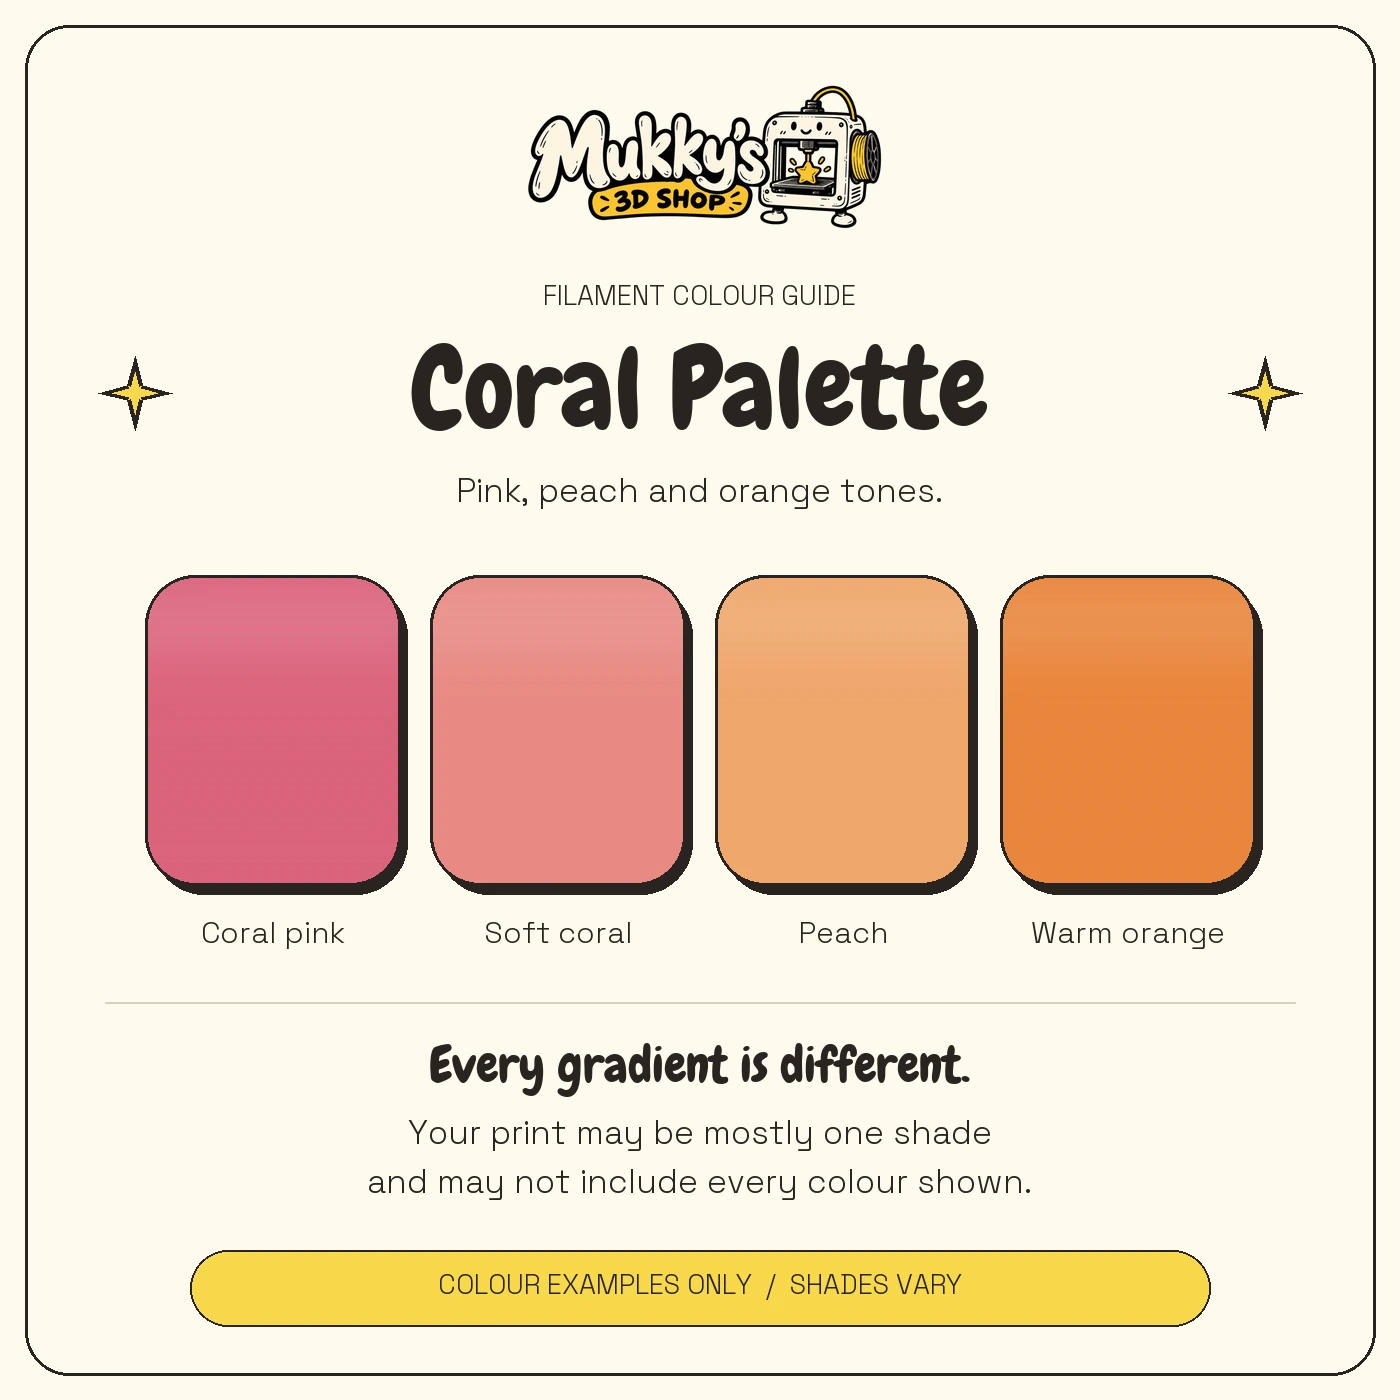
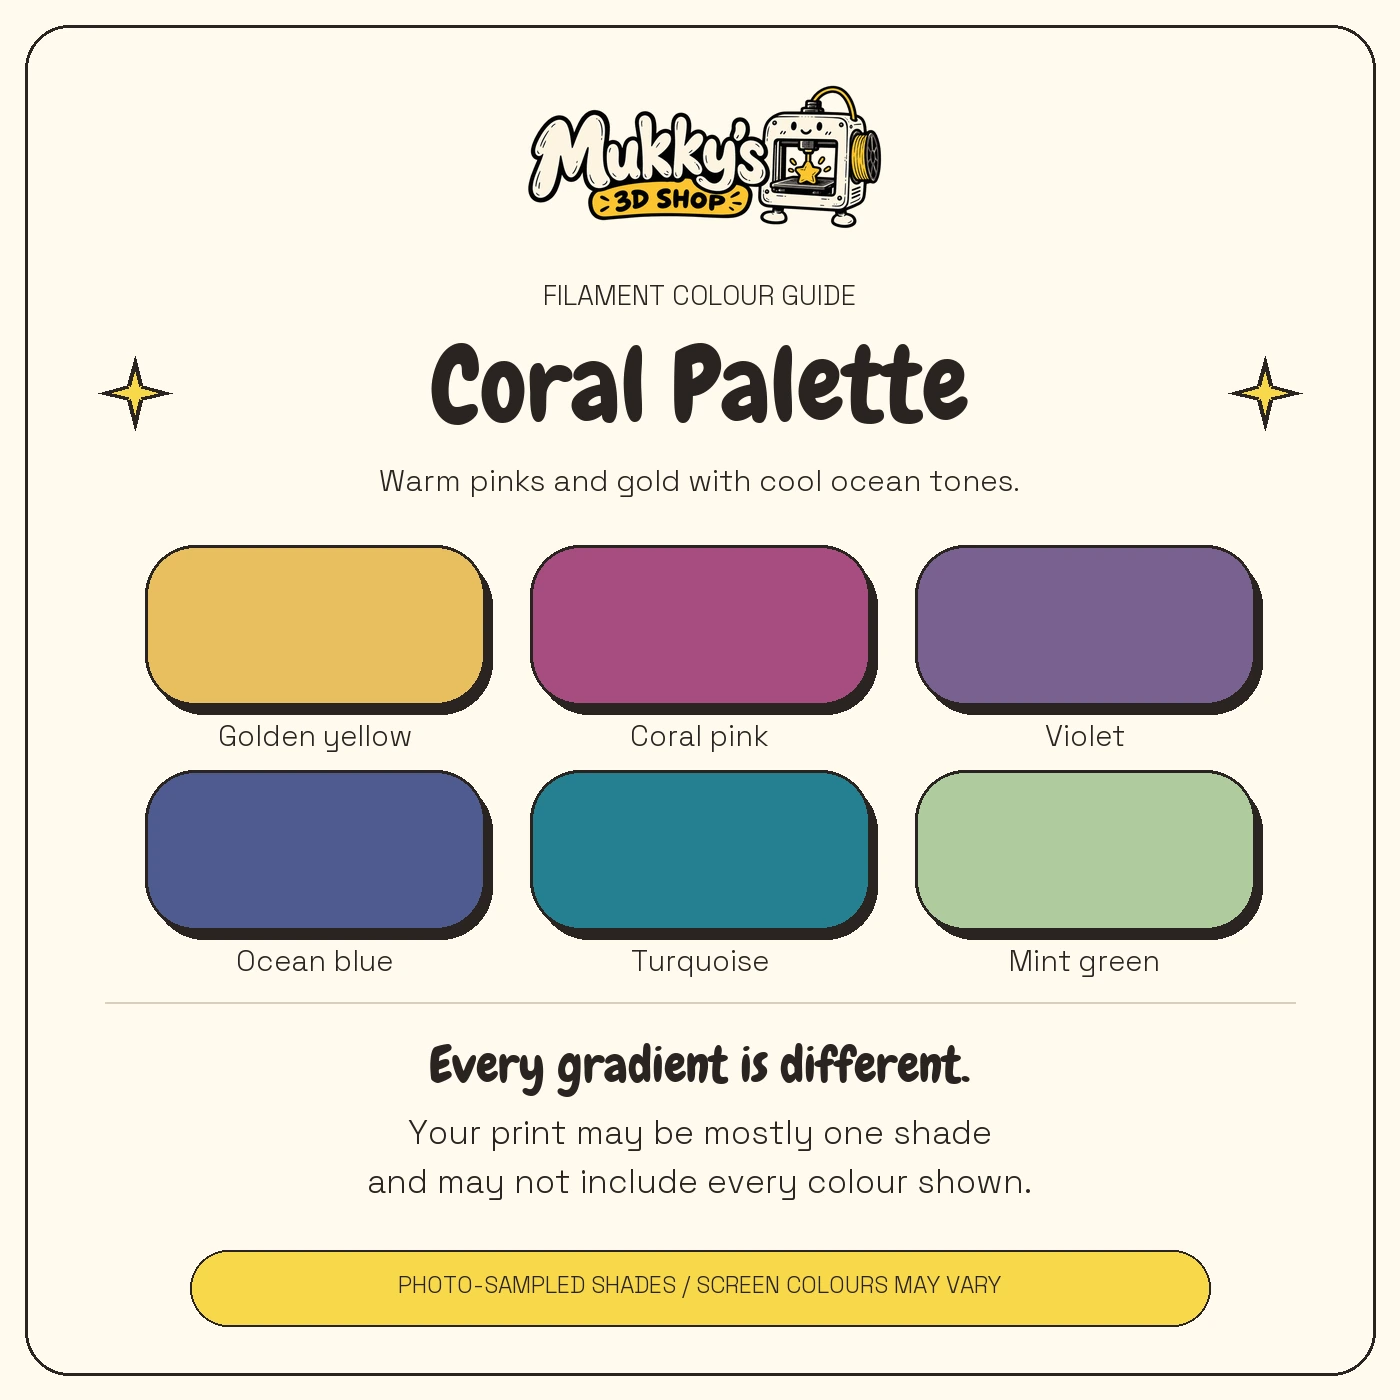
Update filament palette guides and clarify order support options

Changed region(s): [[0.0921, 0.3379, 0.9214, 0.7064], [0.2764, 0.2457, 0.7064, 0.3071], [0.2764, 0.8907, 0.7064, 0.9214]]

diff --git a/apps/storefront/src/app/[countryCode]/(main)/contact/page.tsx b/apps/storefront/src/app/[countryCode]/(main)/contact/page.tsx
@@ -1,10 +1,32 @@
 import { PolicyPage } from "@modules/policies/templates"
 import { Metadata } from "next"
 export const metadata: Metadata = { title: "Contact us" }
-export default function Page() {
-  return <PolicyPage title="A helping hand.">
+export default async function Page({ searchParams }: {
+  searchParams: Promise<{ topic?: string | string[]; order?: string | string[] }>
+}) {
+  const params = await searchParams
+  // The reference only prefills a support email; it never grants access to an order.
+  const orderNumber = typeof params.order === "string" && /^\d{1,20}$/.test(params.order) ? params.order : ""
+  const missing = params.topic === "missing-delivery"
+  const faulty = params.topic === "faulty-item" || params.topic === "return"
+  const topic = missing ? "Item hasn't arrived" : faulty ? "Received a faulty item" : "Order enquiry"
+  const subject = `${topic}${orderNumber ? ` - Order #${orderNumber}` : ""}`
+  const body = `Hello Mukky's 3D Shop,\n\nOrder number: ${orderNumber}\n\n${missing
+    ? "My item hasn't arrived.\nItem(s) missing: \nExpected delivery date (if known): \nTracking status (if available): "
+    : faulty ? "I've received a faulty or incorrect item.\nItem(s) affected: \nDescription of the problem: "
+    : "How can we help? "}\n\nThank you.`
+  const mailto = `mailto:mukkys3dshop@gmail.com?subject=${encodeURIComponent(subject)}&body=${encodeURIComponent(body)}`
+  return <PolicyPage title={missing ? "Item hasn’t arrived?" : faulty ? "Received a faulty item?" : "A helping hand."}>
+    {(missing || faulty) && <>
+      {orderNumber && <p>Help with order #{orderNumber}</p>}
+      <p>{missing
+        ? "Check your order’s delivery updates and any tracking link first. If your delivery is overdue, or tracking says delivered but you haven’t received it, email us and we’ll investigate."
+        : "Tell us which item is faulty, damaged or incorrect and what happened. Please wait for our instructions before sending anything back."}</p>
+      <p><a className="underline font-semibold" href={mailto}>{missing ? "Email us about a missing delivery" : "Email us about a faulty item"} ↗</a></p>
+      <p>This opens your email app with the order reference filled in. Add the details and send the email to submit your enquiry. It doesn’t automatically cancel or refund your order.</p>
+    </>}
     <p>Need help with your fidgets, delivery, payment or a refund request? Email Mukky&apos;s 3D Shop and we&apos;ll help.</p>
-    <p><a className="underline break-all" href="mailto:mukkys3dshop@gmail.com">mukkys3dshop@gmail.com</a></p>
+    <p><a className="underline break-all" href={mailto}>mukkys3dshop@gmail.com</a></p>
     <p>Include your order number and a short description of the problem. Never send card details or passwords.</p>
     <p>If your item arrived damaged or faulty, you can attach a clear photo of the item and packaging. Please avoid including faces, identity documents or unrelated personal information.</p>
     <p>You can email us even if you checked out as a guest. For account orders, you can also submit a refund request from your order details. Sending a request does not automatically cancel or refund an order; we will review it and reply.</p>

diff --git a/apps/storefront/src/modules/order/components/help/index.tsx b/apps/storefront/src/modules/order/components/help/index.tsx
@@ -2,20 +2,26 @@ import { Heading } from "@modules/common/components/ui"
 import LocalizedClientLink from "@modules/common/components/localized-client-link"
 import React from "react"
 
-const Help = ({ orderNumber }: { orderNumber?: number }) => {
+const Help = ({ orderNumber, orderId }: { orderNumber?: number; orderId?: string }) => {
+  const contactQuery = new URLSearchParams({ order: String(orderNumber ?? "") })
   return (
-    <div className="joy-order-help mt-6">
-      <Heading className="text-base-semi">Need help?</Heading>
+    <div id="order-help" className="joy-order-help mt-6 scroll-mt-24">
+      <Heading className="text-base-semi">Help with this order</Heading>
       <div className="text-base-regular my-2">
         <ul className="gap-y-2 flex flex-col">
           <li>
-            <LocalizedClientLink href={`/contact?order=${orderNumber || ""}`}>Contact</LocalizedClientLink>
-          </li>
-          <li>
-            <LocalizedClientLink href={`/contact?topic=return&order=${orderNumber || ""}`}>
-              Request a return
+            <LocalizedClientLink href={orderId
+              ? `/account/orders/details/${orderId}/refund`
+              : `/contact?${contactQuery}&topic=faulty-item`}>
+              Received a faulty item
             </LocalizedClientLink>
           </li>
+          <li>
+            <LocalizedClientLink href={`/contact?${contactQuery}&topic=missing-delivery`}>
+              Item hasn’t arrived
+            </LocalizedClientLink>
+          </li>
+          <li><LocalizedClientLink href={`/contact?${contactQuery}`}>Something else? Contact us</LocalizedClientLink></li>
         </ul>
       </div>
     </div>

diff --git a/apps/storefront/src/modules/account/components/refund-form/index.tsx b/apps/storefront/src/modules/account/components/refund-form/index.tsx
@@ -42,7 +42,9 @@ export default function RefundForm({ details }: { details: RefundDetails }) {
         </select>
       </label>
       {kind === "refund" && details.order.items.some((item) => item.awaiting_delivery > 0) && <div className="joy-return-message">
-        <p>Some items are awaiting delivery. Please wait until delivery is recorded before reporting a fault with those items. You can still send a cancellation request for review.</p>
+        <p>Some items don’t have delivery recorded yet. If yours has arrived faulty, contact us so we can help. You can still send a cancellation request for review.</p>
+        <p><LocalizedClientLink href={`/contact?topic=faulty-item&order=${details.order.display_id}`}>Received it already? Report a fault by email ↗</LocalizedClientLink></p>
+        <p><LocalizedClientLink href={`/contact?topic=missing-delivery&order=${details.order.display_id}`}>Item hasn’t arrived? Get delivery help ↗</LocalizedClientLink></p>
       </div>}
       {kind === "cancellation" && details.order.items.some((item) => item.fulfillment_started) && <div className="joy-return-message">
         <p>Fulfilment has started, so we may not be able to stop dispatch. You can notify us of cancellation now; if the parcel is on its way, wait for delivery and our return instructions.</p>

diff --git a/apps/storefront/src/app/[countryCode]/(main)/account/@dashboard/orders/details/[id]/refund/page.tsx b/apps/storefront/src/app/[countryCode]/(main)/account/@dashboard/orders/details/[id]/refund/page.tsx
@@ -4,7 +4,7 @@ import RefundHistory from "@modules/account/components/refund-history"
 import LocalizedClientLink from "@modules/common/components/localized-client-link"
 import { notFound } from "next/navigation"
 
-export const metadata = { title: "Request a refund" }
+export const metadata = { title: "Report a fault or request a refund" }
 
 export default async function RequestRefundPage({ params }: { params: Promise<{ id: string }> }) {
   const { id } = await params
@@ -14,7 +14,7 @@ export default async function RequestRefundPage({ params }: { params: Promise<{ 
   })
   return <div className="joy-returns-page">
     <LocalizedClientLink href={`/account/orders/details/${id}`}>← Back to order</LocalizedClientLink>
-    <h1>Request a refund</h1>
+    <h1>Report a fault or request a refund</h1>
     <p>Order #{details.order.display_id} · Choose specific items and quantities.</p>
     <RefundForm details={details} />
     {!!details.requests.length && <section><h2>Requests for this order</h2><RefundHistory requests={details.requests} /></section>}

diff --git a/apps/storefront/src/modules/products/components/gradient-palette-guide/index.tsx b/apps/storefront/src/modules/products/components/gradient-palette-guide/index.tsx
@@ -7,8 +7,8 @@ export default function GradientPaletteGuide({ product }: { product: HttpTypes.S
     ...(product.variants ?? []).flatMap((variant) => [variant.title, ...(variant.options ?? []).map((option) => option.value)]),
   ]
   const palettes = [
-    { key: "coral", title: "Coral Palette", colours: "Pink, peach and orange tones" },
-    { key: "forest", title: "Forest Palette", colours: "Sage, olive, lime green and silvery grey tones" },
+    { key: "coral", title: "Coral Palette", colours: "Golden yellow, pink, violet, blue, turquoise and mint green tones" },
+    { key: "forest", title: "Forest Palette", colours: "Lime, leaf green, emerald, teal, blue and violet tones" },
   ].filter((palette) => colourNames.some((name) =>
     new RegExp(`\\b${palette.key}\\b`, "i").test(name ?? "") && /\b(palette|pallete|gradient)\b/i.test(name ?? "")
   ))

diff --git a/apps/storefront/src/modules/account/components/order-card/index.tsx b/apps/storefront/src/modules/account/components/order-card/index.tsx
@@ -38,6 +38,7 @@ export default function OrderCard({ order }: { order: HttpTypes.StoreOrder }) {
           {!items.length && <span>View order for item details.</span>}
         </div>
         <div className="joy-order-list-status">
+          <LocalizedClientLink href={`/account/orders/details/${order.id}#order-help`}>Get help with this order ↗</LocalizedClientLink>
           {order.status !== "canceled" && order.payment_status !== "refunded" && <LocalizedClientLink href={`/account/orders/details/${order.id}/refund`}>Request a refund ↗</LocalizedClientLink>}
           <span>{quantity} {quantity === 1 ? "item" : "items"}</span>
           <span className="joy-status-pill" data-testid="order-status">Order: {order.status === "canceled" ? "Cancelled" : (order.status || "pending").replaceAll("_", " ")}</span>

diff --git a/apps/storefront/src/modules/order/templates/order-details-template.tsx b/apps/storefront/src/modules/order/templates/order-details-template.tsx
@@ -46,7 +46,7 @@ const OrderDetailsTemplate: React.FC<OrderDetailsTemplateProps> = ({
             <OrderSummary order={order} />
             <PaymentDetails order={order} />
             {order.status !== "canceled" && order.payment_status !== "refunded" && <LocalizedClientLink className="joy-return-order-link" href={`/account/orders/details/${order.id}/refund`}>Request a refund ↗</LocalizedClientLink>}
-            <Help orderNumber={order.display_id} />
+            <Help orderNumber={order.display_id} orderId={order.status !== "canceled" && order.payment_status !== "refunded" ? order.id : undefined} />
           </aside>
         </div>
       </div>
